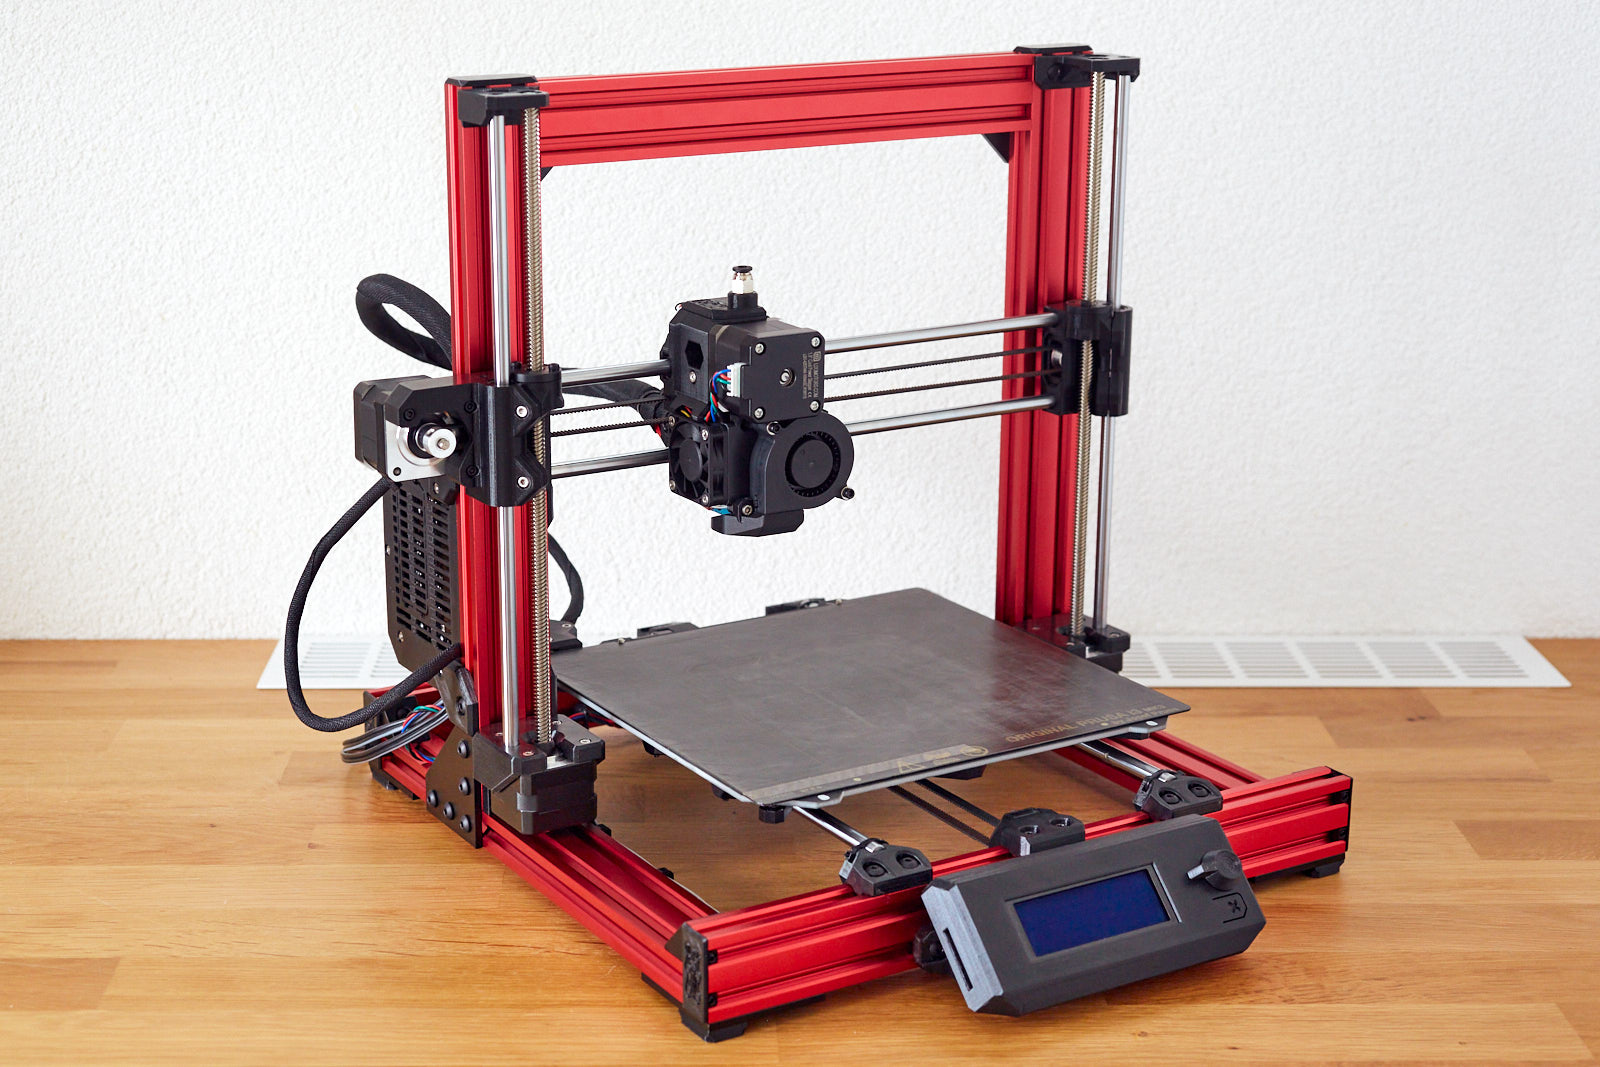
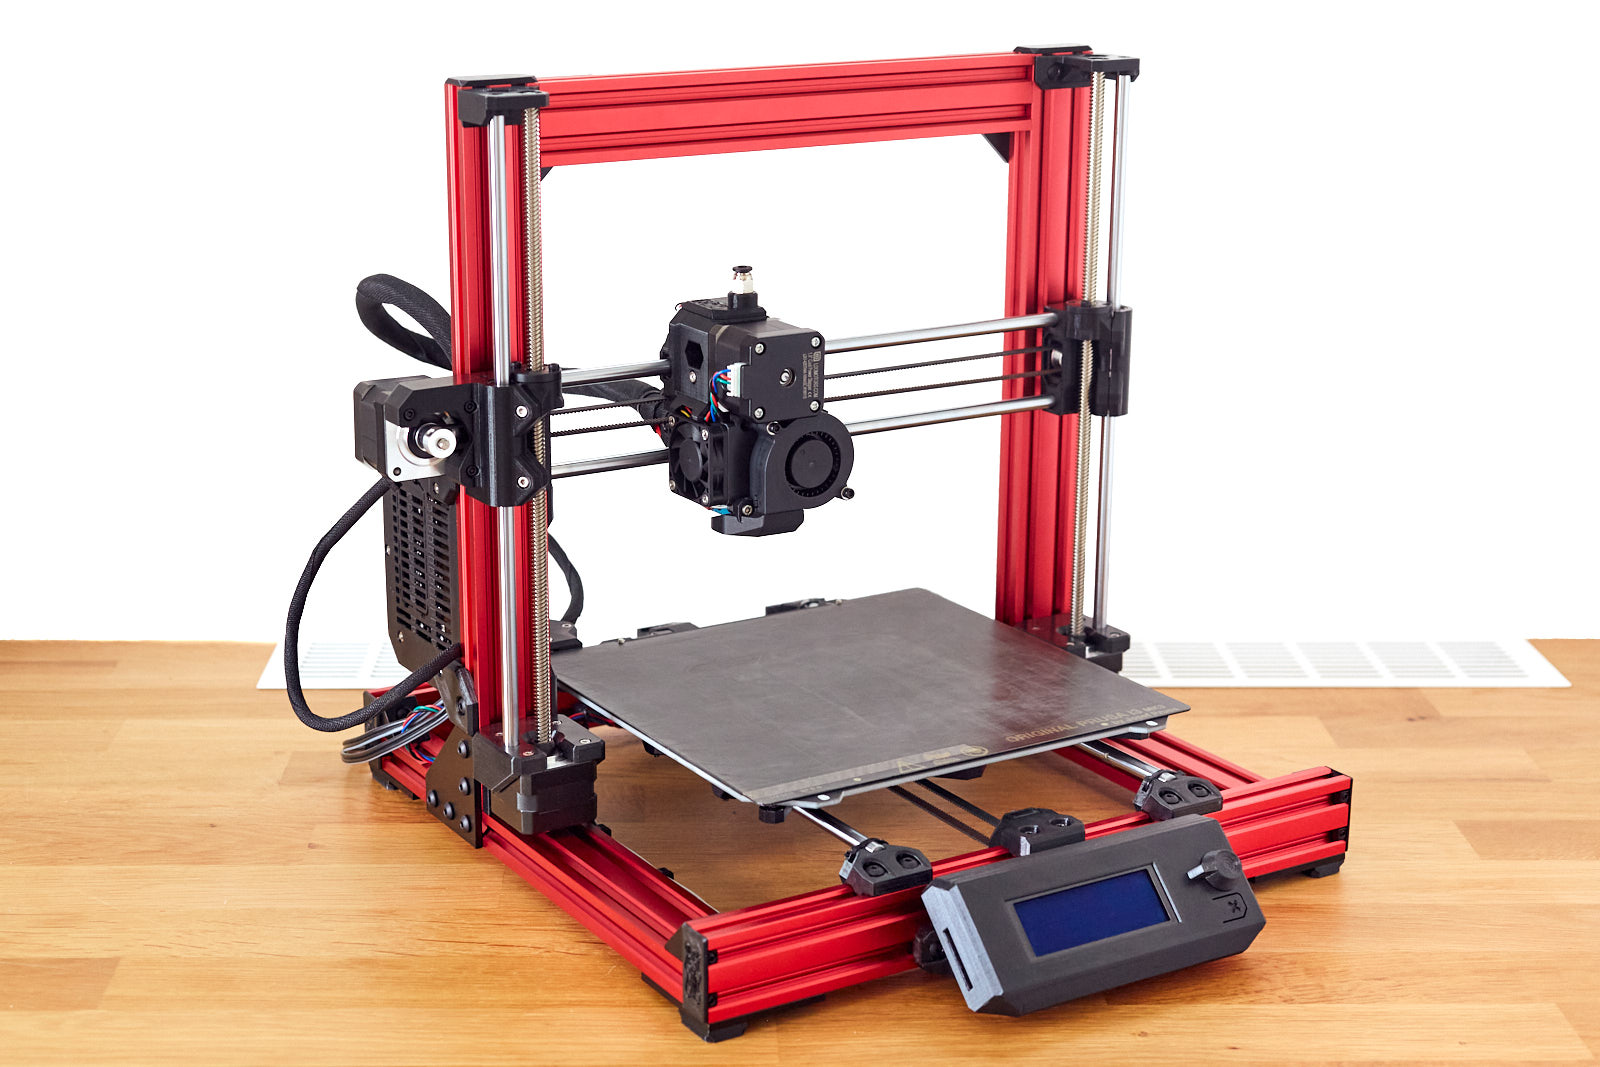
change main picture

Changed region(s): [[0.5625, 0.0, 1.0, 1.0], [0.0, 0.3711, 0.1875, 0.6186]]

diff --git a/README.md b/README.md
@@ -26,7 +26,7 @@
 
 The Bear Frame Upgrade improves stiffness and reliability of the original [Prusa i3 MK2(S), MK2.5(S) and MK3(S)](https://www.prusa3d.com/). It allows faster prints, increases precision, makes maintenance easier and opens the door to more customisations. Plus it looks unique with our coloured frames!
 
-![Bear Frame Upgrade 2.1 MK3S](extra/rendering/mk3_home_right_882px.jpg)
+![Bear Frame Upgrade 2.1 MK3S](extra/photos/frame_01_900px.jpg)
 
 
 
@@ -252,7 +252,7 @@ What you __must__ do:
   * Use the same license (GPLv3)
   * Document changes applied
 
-Note: STL and STEP files are generally not source files. The source files are those you use to design your project such as CAD files (Fusion 360), mechanical drawings, code, documentation, etc. However, STL and STEP files are commonly used format with great interoperability. Therefore, we encourage to share the STL and STEP files in addition to the source files.
+Note: STL and STEP files are generally not source files. The source files are those you use to design your project such as CAD files (Fusion 360), mechanical drawings, code, documentation, etc. However, STL and STEP files are a commonly used format with great interoperability. Therefore, we encourage to share the STL and STEP files in addition to the source files.
 
 
 
